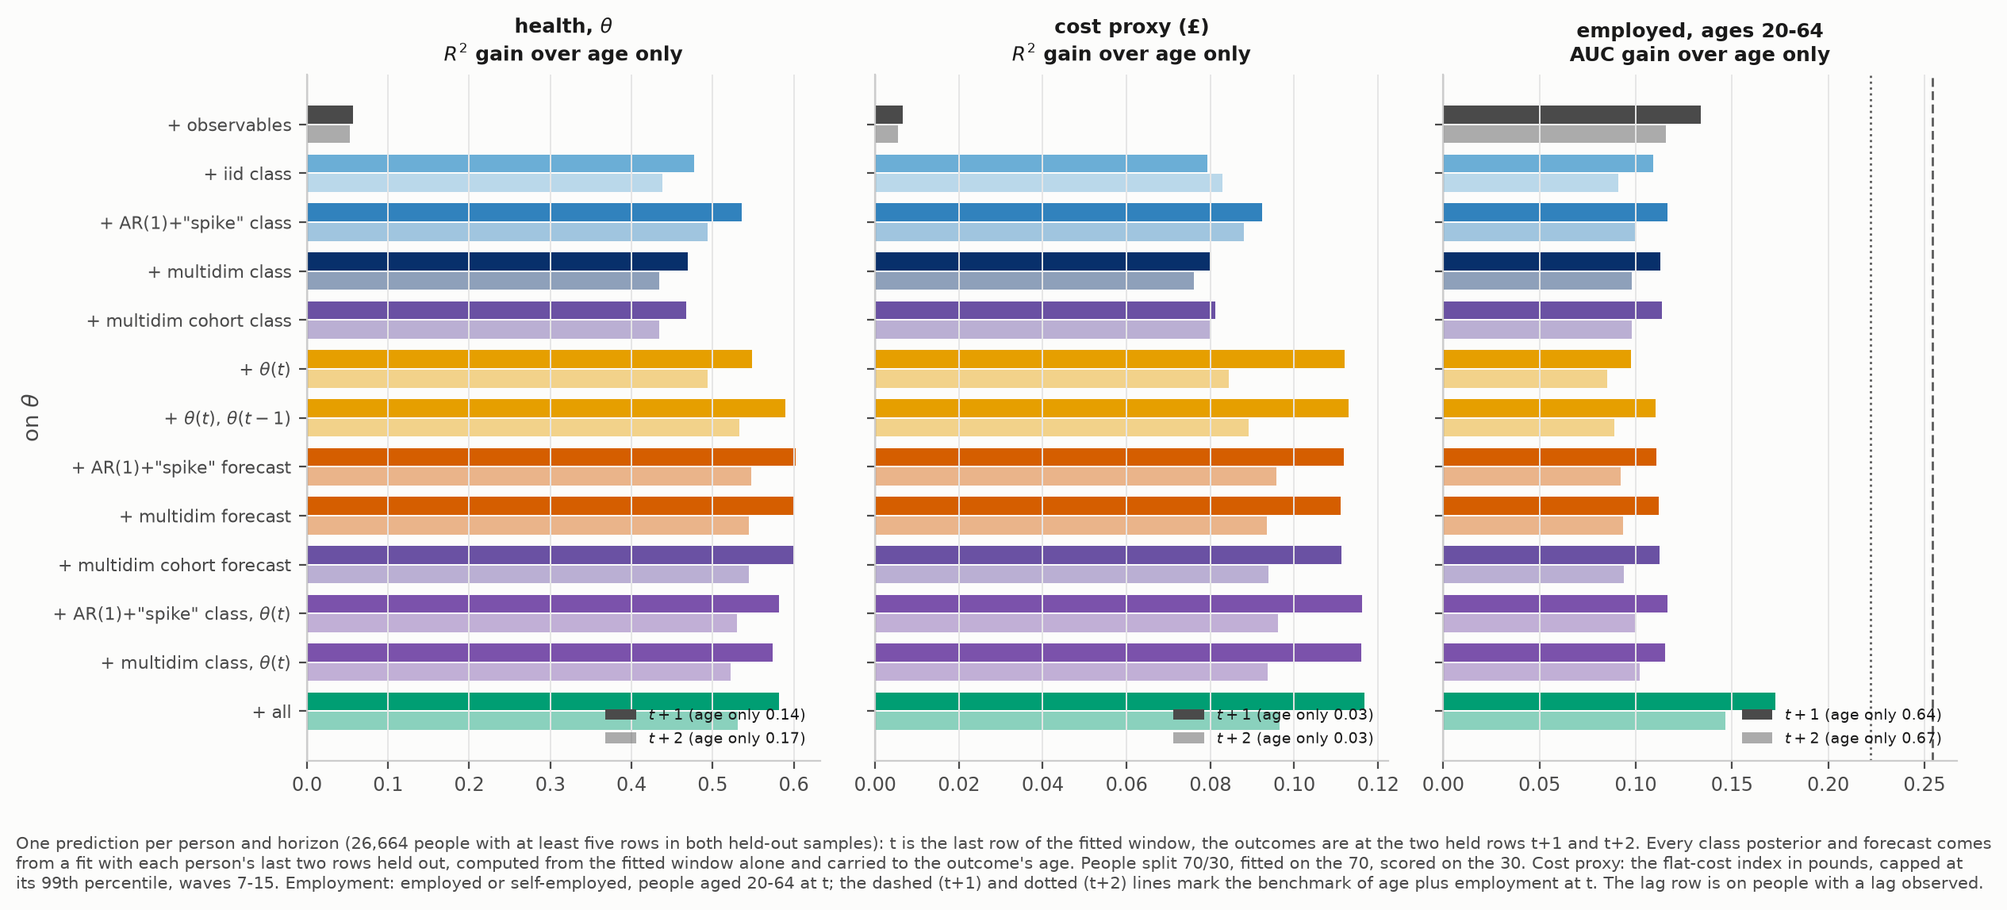
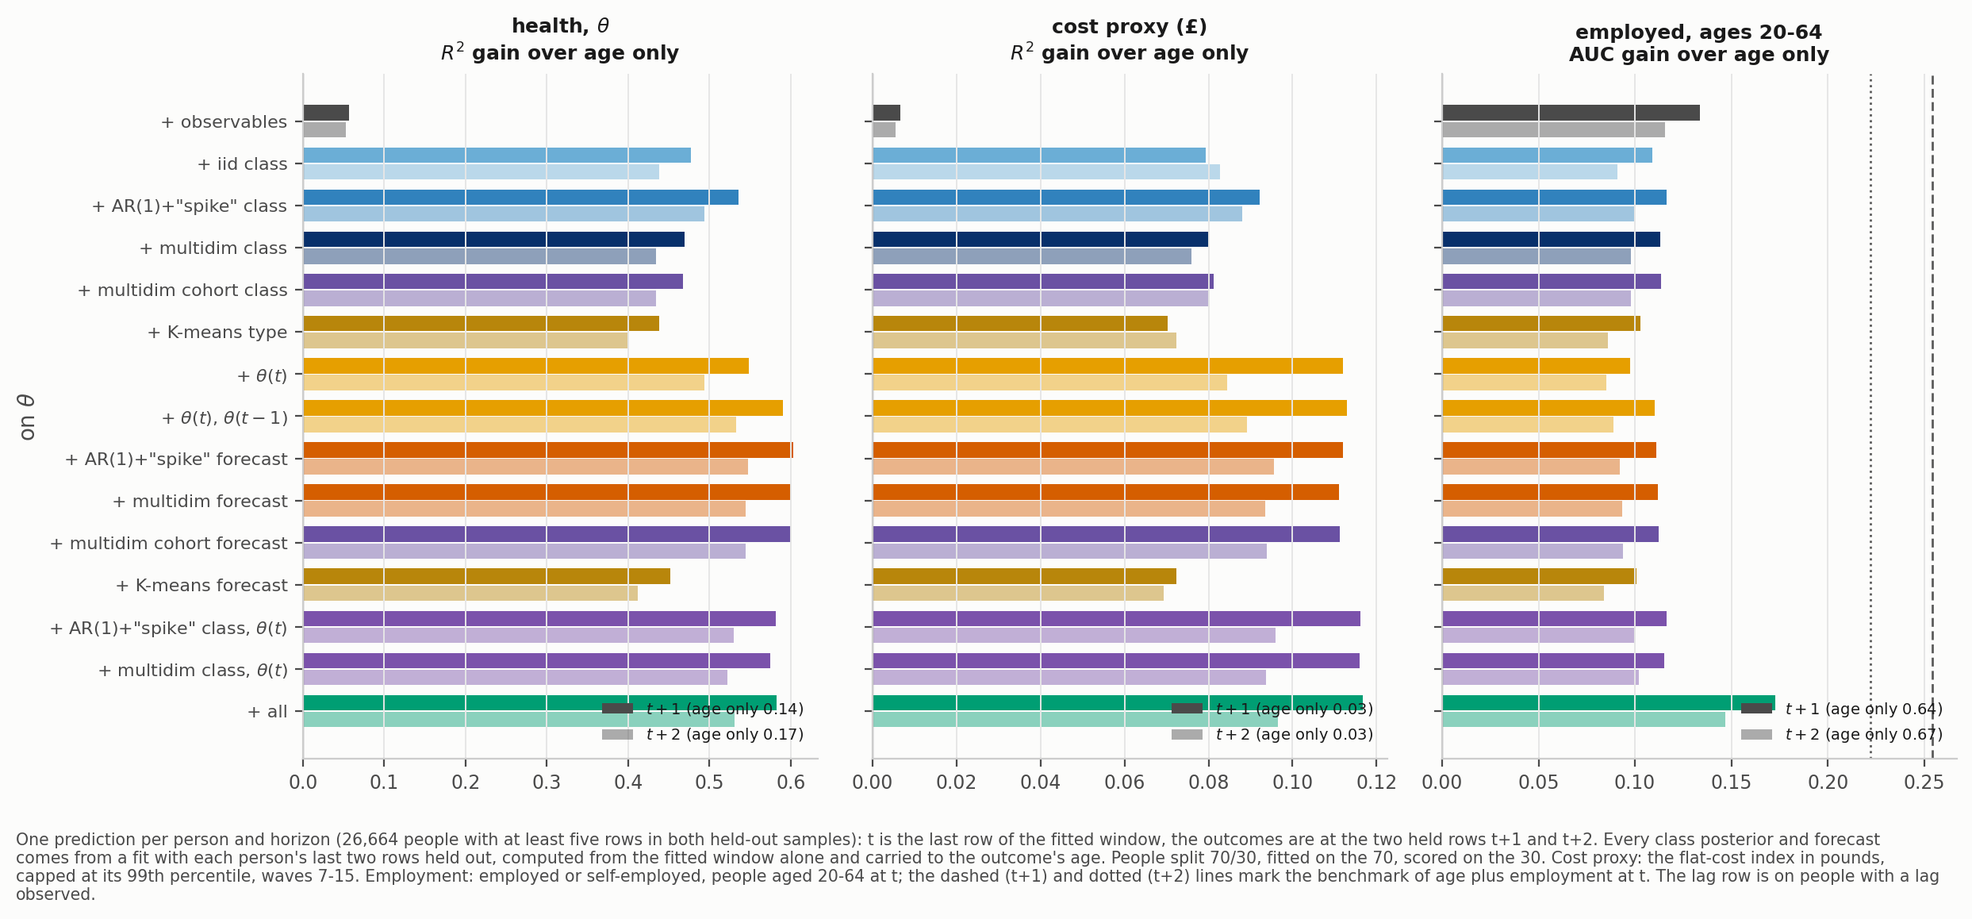
Prediction: K-means types and forecasts on the last-rows-held-out windows (22 --last-held, 33); 2x2 summary figure (56)
22: --last-held runs partial K-means on theta and h with each person's last two rows held out
(people with at least five rows), the rows of the held-out Bayesian fits.
33: '+ K-means type' and '+ K-means forecast' (the type's mean at the outcome's age); the
existing rows are unchanged. The tab_prediction f-string no longer needs Python 3.12.
56: fig_prediction_summary.png, predicting ahead (theta, cost) and predicting the type, with
the observables across the types.

Claude-Session: https://claude.ai/code/session_01KuSybU76X361Nwk54WX1KB

diff --git a/descriptives/56_paper_prediction_summary.py b/descriptives/56_paper_prediction_summary.py
@@ -1,0 +1,137 @@
+"""Main-text summary of the two prediction exercises, 2 x 2.
+
+Left column, predicting ahead (from 33_paper_prediction.py, paper_prediction.csv, on theta):
+out-of-sample R-squared at t+1 (full bar) and t+2 (light bar) for (a) the measure and (c) the
+cost proxy, from the observables, theta(t), theta(t) and its lag, and the forecasts of partial
+K-means, the AR(1) plus "spike" mixture and the multidimensional fit with birth-decade shifts,
+each on top of a quadratic in age; dotted, age alone.
+
+Right column, predicting the type (from 43_paper_type_from_initial.py --first2,
+paper_type_from_initial_first2.csv): (b) macro one-vs-rest AUC for the type of the fits with
+each person's first two rows held out, from the observables, the first held reading and both
+held readings, for K-means, AR(1) plus "spike" and the multidimensional fit; dotted, age
+alone. (d) How the observables are distributed across those types: the share of each
+education group, income third and sex in the worst type, against the worst type's overall
+share (dotted). The per-person types are recomputed with 43's own functions and cached to
+paper_prediction_summary_types.csv.
+
+The multidimensional typology in (b) and (d) is the fit without birth-decade shifts: there is
+no first-two-rows-held-out fit with them (theta-ssm-mort-cohort-first2ho).
+
+Outputs: paper/figures/fig_prediction_summary.png,
+         artifacts/descriptives/paper_prediction_summary_types.csv
+"""
+
+from __future__ import annotations
+
+import importlib
+import sys
+from pathlib import Path
+
+import matplotlib.pyplot as plt
+import numpy as np
+import pandas as pd
+
+sys.path.insert(0, str(Path(__file__).resolve().parent))
+from _paper_common import DESC, FIG, MENTAL_COL, MULTIDIM_CONTRACT, load_labels  # noqa: E402
+from _style import CLUSTER, INK2, PURPLE, apply_style  # noqa: E402
+
+KM_COL, SSM_COL, MD_COL = "#b8860b", CLUSTER[0], PURPLE
+TYPES_CSV = DESC / "paper_prediction_summary_types.csv"
+EDUC = [("other/none", "No qualifications"), ("GCSE", "GCSE"), ("A-level", "A-level"), ("degree or higher", "Degree or higher")]
+
+
+def person_types() -> pd.DataFrame:
+    """Modal type of each first-two-rows-held-out typology, with the observables."""
+    if TYPES_CSV.exists() and "--recompute" not in sys.argv:
+        return pd.read_csv(TYPES_CSV)
+    argv = sys.argv; sys.argv = ["43", "--first2"]
+    M43 = importlib.import_module("43_paper_type_from_initial")
+    sys.argv = argv
+    sub, first = M43.first_rows()
+    L = M43.load_labels("theta_first2held")
+    out = [first.merge(pd.DataFrame({"pidp": L.index, "type": L.to_numpy()}), on="pidp").assign(typology="kmeans")]
+    out.append(M43.bayes_types("ssm", sub, first).assign(typology="ssm"))
+    sub_md, first_md = M43.first_rows(MULTIDIM_CONTRACT, extra=(MENTAL_COL,), kheld=M43.MD_KHELD)
+    out.append(M43.multidim_types(sub_md, first_md.rename(columns={MENTAL_COL: "m0"})).assign(typology="md"))
+    t = pd.concat([o[["typology", "pidp", "type", "y0", "educ_group", "income_rank_mean", "female"]] for o in out])
+    t.to_csv(TYPES_CSV, index=False)
+    return t
+
+
+def main() -> int:
+    apply_style()
+    p = pd.read_csv(DESC / "paper_prediction.csv"); p = p[p["variant"] == "theta"]
+    q = pd.read_csv(DESC / "paper_type_from_initial_first2.csv")
+    types = person_types()
+
+    fig, axes = plt.subplots(2, 2, figsize=(12, 8.4))
+    # ---- left: predicting ahead
+    LEFT = [("Observables", "+ observables", INK2), (r"$\theta_t$", "+ theta(t)", "#1f6fb4"),
+            (r"$\theta_t,\ \theta_{t-1}$", "+ theta(t), theta(t-1)", "#1f6fb4"),
+            ("K-means forecast", "+ K-means forecast", KM_COL), ('AR(1)+"spike" forecast', '+ AR(1)+"spike" forecast', SSM_COL),
+            ("Multidimensional forecast\n(cohort shifts)", "+ multidim cohort forecast", MD_COL)]
+    for ax, oc, title in ((axes[0, 0], "y_next", r"(a) Predicting health ahead, $\theta$"),
+                          (axes[1, 0], "cost_next", "(c) Predicting the cost proxy ahead")):
+        s = p[p["outcome"] == oc].set_index(["predictors", "horizon"])["score"]
+        y = np.arange(len(LEFT))[::-1].astype(float); h = 0.38
+        for yi, (lab, pr, c) in zip(y, LEFT):
+            for k, off, alpha in ((1, h / 2, 1.0), (2, -h / 2, 0.4)):
+                v = s.loc[(pr, k)]
+                ax.barh(yi + off, v, height=h * 0.95, color=c, alpha=alpha)
+                ax.text(v + 0.004 * ax.get_xlim()[1], yi + off, f"{v:.2f}", va="center", fontsize=7.5, color=INK2)
+        for k, ls in ((1, (0, (1, 1.5))), (2, (0, (1, 3.5)))):
+            ax.axvline(s.loc[("age", k)], color="k", lw=1, ls=ls)
+        ax.text(s.loc[("age", 1)], y[0] + 0.62, " age only", fontsize=7.5, va="bottom")
+        ax.set_yticks(y, [l for l, _, _ in LEFT]); ax.set_ylim(-0.6, y[0] + 0.9)
+        ax.set_xlim(0, s.max() * 1.12); ax.set_xlabel("out-of-sample $R^2$", fontsize=9)
+        ax.set_title(title, loc="left", fontsize=10)
+        ax.legend(handles=[plt.Rectangle((0, 0), 1, 1, color=INK2), plt.Rectangle((0, 0), 1, 1, color=INK2, alpha=0.4)],
+                  labels=["$t+1$", "$t+2$"], fontsize=8, frameon=False, loc="upper right")
+    # ---- (b) predicting the type
+    ax = axes[0, 1]
+    TYP = [("kmeans", "K-means", KM_COL), ("ssm", 'AR(1)+"spike"', SSM_COL), ("md", "Multidimensional", MD_COL)]
+    INFO = [("Observables", "+ education, income, sex"), (r"$\theta_{t-2}$", "+ theta(0)"), (r"$\theta_{t-2},\ \theta_{t-1}$", "+ theta(0), theta(1)")]
+    w, gap = 0.26, 0.5
+    centres = np.arange(len(INFO))[::-1] * (len(TYP) * w + gap)
+    for k, (tag, lab, c) in enumerate(TYP):
+        qs = q[q["typology"] == tag].set_index("predictors")["auc"]
+        yk = centres + (1 - k) * w
+        ax.barh(yk, [qs.loc[pr] for _, pr in INFO], height=w * 0.92, color=c, label=lab)
+        for yy in yk:   # age alone, dotted, across the typology's own bar
+            ax.plot([qs.loc["age(0)"]] * 2, [yy - w / 2, yy + w / 2], color="k", lw=1.2, ls=(0, (1, 1.2)))
+        for yy, (_, pr) in zip(yk, INFO):
+            ax.text(qs.loc[pr] + 0.003, yy, f"{qs.loc[pr]:.2f}", va="center", fontsize=7.5, color=INK2)
+    ax.set_yticks(centres, [l for l, _ in INFO]); ax.set_xlim(0.5, 0.9)
+    ax.set_xlabel("macro one-vs-rest AUC for the type (dotted: age only)", fontsize=9)
+    ax.legend(fontsize=8, frameon=False, loc="upper right")
+    ax.set_title("(b) Predicting the type from the first two rows", loc="left", fontsize=10)
+    # ---- (d) the observables across the types: share in the worst type
+    ax = axes[1, 1]
+    t = types.dropna(subset=["educ_group", "income_rank_mean"]).copy()
+    t["inc3"] = pd.qcut(t.groupby("pidp")["income_rank_mean"].transform("first"), 3, labels=["Bottom income third", "Middle income third", "Top income third"])
+    GROUPS = [("educ_group", g, lab) for g, lab in EDUC] + [("inc3", g, g) for g in ["Bottom income third", "Middle income third", "Top income third"]] \
+        + [("female", 0.0, "Men"), ("female", 1.0, "Women")]
+    blocks = [0] * 4 + [1] * 3 + [2] * 2
+    centres = -(np.arange(len(GROUPS)) * (len(TYP) * w + 0.25) + np.array(blocks) * 0.6)
+    for k, (tag, lab, c) in enumerate(TYP):
+        d = t[t["typology"] == tag]; worst = d["type"].eq(0)
+        vals = [worst[d[col] == g].mean() for col, g, _ in GROUPS]
+        yk = centres + (1 - k) * w
+        ax.barh(yk, vals, height=w * 0.92, color=c, label=lab)
+        ax.axvline(worst.mean(), color=c, lw=1, ls=(0, (1, 1.5)))
+    ax.set_yticks(centres, [l for _, _, l in GROUPS], fontsize=8)
+    ax.set_xlabel("share in the worst type (dotted: the worst type's overall share)", fontsize=9)
+    ax.set_title("(d) The observables across the types", loc="left", fontsize=10)
+    fig.tight_layout()
+    fig.savefig(FIG / "fig_prediction_summary.png")
+    print("wrote fig_prediction_summary.png")
+    for tag, _, _ in TYP:
+        d = t[t["typology"] == tag]
+        print(tag, len(d), "type shares", d["type"].value_counts(normalize=True).sort_index().round(3).tolist(),
+              "mean y0 by type", d.groupby("type")["y0"].mean().round(2).tolist())
+    return 0
+
+
+if __name__ == "__main__":
+    sys.exit(main())

diff --git a/descriptives/33_paper_prediction.py b/descriptives/33_paper_prediction.py
@@ -6,7 +6,9 @@ least five rows on the health contract): the single-channel K = 3 fits on the
 paper's measure under independent residuals (iid) and under AR(1) plus a
 one-period "spike" (artifacts/health-next/health-{v}-{base,ssm}-ho), and the
 multidimensional fit, physical + mental GRM + Gompertz-Makeham mortality,
-under AR(1) plus "spike" (artifacts/multidim-health/{v}-ssm-mort-ho). Class
+under AR(1) plus "spike" (artifacts/multidim-health/{v}-ssm-mort-ho); and partial
+K-means on the same fitted windows (22_paper_kmeans.py --last-held, variants
+{v}_last2held). Class
 posteriors and the models' own one-step forecasts are computed from the
 fitted window alone, at the posterior mean, so nothing at t+1 informs them.
 
@@ -25,12 +27,15 @@ version. Predictors at t, each set carrying a quadratic in age:
   + iid class            posterior class probabilities, independent residuals
   + AR(1)+"spike" class  posterior class probabilities, AR(1) plus "spike"
   + multidim class       posterior class probabilities, multidimensional fit
+  + K-means type         the partial K-means type of the fitted window (dummies)
   + v(t)                 the measure at t
   + v(t), v(t-1)         and its lag (people with a lag observed)
   + AR(1)+"spike" forecast   the model's own forecast of v at the outcome's
                          age: the class-weighted path plus the filtered
                          state carried forward from t
   + multidim forecast    the same from the multidimensional fit
+  + K-means forecast     the K-means type's mean of the measure at the outcome's
+                         age (the type's centroid profile; no person-level state)
   + AR(1)+"spike" class, v(t)
   + multidim class, v(t)
   + all                  AR(1)+"spike" class, v(t), observables
@@ -231,6 +236,32 @@ def multidim(v: str, fit: str = "ssm-mort-ho", tag: str = "md"):
                   "s": mom[ch[0]]["sd"], "pidp": pids, "age_fe": window_ages(d, sub)[0], "offset": offset}
 
 
+def kmeans_last_held(v: str):
+    """Partial K-means types on the fitted windows (each person's last two rows held out) and
+    the types' mean profiles by age, from 22_paper_kmeans.py --last-held; None until that has run."""
+    var = f"{v}_last2held"
+    lab = pd.read_parquet(DESC / "paper_kmeans_labels.parquet")
+    lab = lab[lab["variant"] == var]
+    if lab.empty:
+        return None
+    traj = pd.read_csv(DESC / "paper_kmeans_trajectories.csv")
+    traj = traj[(traj["variant"] == var) & (traj["lo"] == 20) & (traj["hi"] == 90)]
+    prof = traj.pivot(index="age", columns="cluster", values="mean").reindex(range(20, 90)).interpolate(limit_direction="both")
+    post = lab[["pidp", "cluster"]].rename(columns={"cluster": "km_type"})
+    for c in range(K - 1):
+        post[f"km_{c + 1}"] = (post["km_type"] == c).astype(float)
+    return post, prof
+
+
+def kmeans_forecast(at: pd.DataFrame, prof: pd.DataFrame, target_age: np.ndarray) -> np.ndarray:
+    """The person's K-means type's mean of the measure at ``target_age`` (integer age, 20-89)."""
+    a = np.clip(np.floor(np.asarray(target_age, float)), 20, 89)
+    out = np.full(len(at), np.nan); ok = at["km_type"].notna().to_numpy() & ~np.isnan(a)
+    vals = prof.to_numpy()
+    out[ok] = vals[(a[ok] - 20).astype(int), at["km_type"].to_numpy()[ok].astype(int)]
+    return out
+
+
 def add_forecasts(at: pd.DataFrame, specs: list[dict], target_age: np.ndarray) -> pd.DataFrame:
     """The models' forecasts of the measure at ``target_age`` for the people in ``at``."""
     for sp in specs:
@@ -282,7 +313,7 @@ def score_sets(s: pd.DataFrame, oc: str, kind: str, SETS: dict, extra: dict | No
     out = []
     for name, cols in {**SETS, **(extra or {})}.items():
         s2, t2, y2 = s, test, y
-        need = [c for c in cols if c in ("y_lag", "md_c1", "md_c2", "md_fc", "mdc_c1", "mdc_c2", "mdc_fc", "emp_t")]
+        need = [c for c in cols if c in ("y_lag", "md_c1", "md_c2", "md_fc", "mdc_c1", "mdc_c2", "mdc_fc", "emp_t", "km_1", "km_2", "km_fc")]
         if need:
             keep = s[need].notna().all(axis=1).to_numpy()
             s2, t2, y2 = s[keep], test[keep], y[keep]
@@ -320,6 +351,8 @@ def run_variant(v: str, md_people: np.ndarray) -> tuple[pd.DataFrame, dict]:
         at = at.merge(post, on="pidp")
     at = at.merge(md[0], on="pidp", how="left") if have_md else at.assign(md_c1=np.nan, md_c2=np.nan)
     at = at.merge(mdc[0], on="pidp", how="left") if have_mdc else at.assign(mdc_c1=np.nan, mdc_c2=np.nan)
+    km = kmeans_last_held(v)
+    at = at.merge(km[0], on="pidp", how="left") if km is not None else at.assign(km_type=np.nan, km_1=np.nan, km_2=np.nan)
     frames = {}
     for k, target in ((1, at["age_hs"].to_numpy()), (2, at["age_he"].to_numpy()), (3, at["age_he"].to_numpy() + 1.0)):
         f = add_forecasts(at.copy(), specs, target)
@@ -327,6 +360,7 @@ def run_variant(v: str, md_people: np.ndarray) -> tuple[pd.DataFrame, dict]:
             f["md_fc"] = np.nan
         if not have_mdc:
             f["mdc_fc"] = np.nan
+        f["km_fc"] = kmeans_forecast(f, km[1], target) if km is not None else np.nan
         frames[k] = outcomes(v, f, k)
     obs = ["income_rank_mean", "female"] + [f"educ_{g}" for g in EDUC]
     SETS = {
@@ -336,11 +370,13 @@ def run_variant(v: str, md_people: np.ndarray) -> tuple[pd.DataFrame, dict]:
         '+ AR(1)+"spike" class': ["ssm_c1", "ssm_c2"],
         "+ multidim class": ["md_c1", "md_c2"],
         "+ multidim cohort class": ["mdc_c1", "mdc_c2"],
+        "+ K-means type": ["km_1", "km_2"],
         f"+ {v}(t)": [v],
         f"+ {v}(t), {v}(t-1)": [v, "y_lag"],
         '+ AR(1)+"spike" forecast': ["ssm_fc"],
         "+ multidim forecast": ["md_fc"],
         "+ multidim cohort forecast": ["mdc_fc"],
+        "+ K-means forecast": ["km_fc"],
         f'+ AR(1)+"spike" class, {v}(t)': ["ssm_c1", "ssm_c2", v],
         f"+ multidim class, {v}(t)": ["md_c1", "md_c2", v],
         "+ all": ["ssm_c1", "ssm_c2", v] + obs,
@@ -397,7 +433,7 @@ def main() -> int:
         groups = [(olab.replace(f"${VL['h']}$", "measure"), "AUC" if kind == "auc" else "$R^2$", len(hz)) for oc, olab, kind, hz in OUT]
         with open(TAB / f"tab_prediction{sfx}.tex", "w") as f:
             f.write("\\begin{tabular}{l" + "r" * len(colkeys) + "}\n\\toprule\n")
-            f.write("predictors at $t$ & " + " & ".join(f"\\multicolumn{{{n}}}{{c}}{{{g.replace('£', '\\pounds')} ({m})}}" for g, m, n in groups) + " \\\\\n")
+            f.write("predictors at $t$ & " + " & ".join(f"\\multicolumn{{{n}}}{{c}}{{{g} ({m})}}" for g, m, n in [(g.replace("£", "\\pounds"), m, n) for g, m, n in groups]) + " \\\\\n")
             start, cm = 2, []
             for _, _, n in groups:
                 cm.append(f"\\cmidrule(lr){{{start}-{start + n - 1}}}"); start += n
@@ -408,7 +444,8 @@ def main() -> int:
         # figure: gain over age, one row per measure, one panel per outcome, paired bars for the horizons
         fig, axes = plt.subplots(len(VSEL), len(OUT), figsize=(12.5, 5.2 * len(VSEL)), sharey="row", squeeze=False)
         COHORT_COL = "#6a51a3"
-        cols = [INK2, CLUSTER[2], CLUSTER[1], CLUSTER[0], COHORT_COL, ORANGE, ORANGE, VERM, VERM, COHORT_COL, PURPLE, PURPLE, GREEN]
+        KM_COL = "#b8860b"
+        cols = [INK2, CLUSTER[2], CLUSTER[1], CLUSTER[0], COHORT_COL, KM_COL, ORANGE, ORANGE, VERM, VERM, COHORT_COL, KM_COL, PURPLE, PURPLE, GREEN]
         for r, v in enumerate(VSEL):
             tv = tabs[v]; sets = metas[v]["sets"]; names = sets[1:]
             for ax, (oc, olab, kind, horizons) in zip(axes[r], metas[v]["out"]):

diff --git a/descriptives/22_paper_kmeans.py b/descriptives/22_paper_kmeans.py
@@ -21,7 +21,8 @@ A fourth lifecycle run clusters each person's predicted cost, the pooled cost cu
 on h evaluated at every contract row (_paper_common.load_predicted_cost_rows): the
 cost-anchored cardinalisation of the measure, for the appendix comparison.
 
---full-only runs the lifecycle fits; --windows-only the windows; --variants h,cost
+--last-held runs theta and h with each person's last two rows held out, for the forecasts of
+33_paper_prediction.py. --full-only runs the lifecycle fits; --windows-only the windows; --variants h,cost
 restricts either to the named variants. --frailty runs only the lifecycle fits on the
 comparison measures, the 31-deficit frailty index and log(frailty + 1/31) (contract columns
 ``frailty``, ``logfrailty``; higher = frailer, so type 1 is the highest), and adds
@@ -60,6 +61,11 @@ FRAILTY = ["frailty", "logfrailty"]   # comparison measures, --frailty only
 # "theta_firstheld", "h_firstheld", "theta_first2held", "h_first2held" for 43_paper_type_from_initial.py
 FIRSTHELD = {"theta_firstheld": ("theta", 1), "h_firstheld": ("h", 1),
              "theta_first2held": ("theta", 2), "h_first2held": ("h", 2)}
+# --last-held: theta and h with each person's last two rows (by age) dropped, people with at least
+# five rows, the rows of the last-rows-held-out Bayesian fits (artifacts/health-next/*-ho) that
+# 33_paper_prediction.py forecasts from; stored as variants "theta_last2held", "h_last2held"
+LASTHELD = {"theta_last2held": ("theta", 2), "h_last2held": ("h", 2)}
+LASTHELD_MIN_OBS = 5
 # --denoise: theta with the one-period "spike" taken out before clustering, the K-means analogue of
 # reading the covariance matrix off the diagonal (29_paper_moments.py). Two versions, stored as variants:
 #   theta_nbr  each observed row replaced by the mean of the person's adjacent observed rows (the one
@@ -113,6 +119,12 @@ def panel(which: str = "health") -> pd.DataFrame:
                             usecols=["pidp", "age", v]).sort_values(["pidp", "age"])
             n = p.groupby("pidp")["age"].transform("size")
             p = p[(n >= k + 3) & (p.groupby("pidp").cumcount() >= k)].rename(columns={v: which})
+        elif which in LASTHELD:
+            v, k = LASTHELD[which]
+            p = pd.read_csv(PROCESSED_DATA_DIR / "contracts" / "health_lifecycle_20_89_minobs3_v1" / "long.csv",
+                            usecols=["pidp", "age", v]).sort_values(["pidp", "age"])
+            n = p.groupby("pidp")["age"].transform("size")
+            p = p[(n >= LASTHELD_MIN_OBS) & (p.groupby("pidp").cumcount() < n - k)].rename(columns={v: which})
         else:
             p = pd.read_csv(PROCESSED_DATA_DIR / "contracts" / "health_lifecycle_20_89_minobs3_v1" / "long.csv",
                             usecols=["pidp", "age", *VARIANTS, *FRAILTY])
@@ -125,7 +137,7 @@ def run(task: tuple[str, int, int]):
     t0 = time.time()
     kv = KVAR.match(variant)
     col, k = (kv.group(1), int(kv.group(2))) if kv else (variant, K)
-    p = load_predicted_cost_rows("h") if variant == "predcost" else panel(variant if variant == "mental" or variant in FIRSTHELD or variant in DENOISE else "health")
+    p = load_predicted_cost_rows("h") if variant == "predcost" else panel(variant if variant == "mental" or variant in FIRSTHELD or variant in LASTHELD or variant in DENOISE else "health")
     p = p[p["age"].between(lo, hi)]
     if kv:
         p = p.rename(columns={col: variant})
@@ -170,9 +182,11 @@ def main() -> int:
         nxt = sys.argv[sys.argv.index("--first-held") + 1:]
         k = int(nxt[0]) if nxt and nxt[0].isdigit() else 1
         tasks = [(f"{v}_first{'' if k == 1 else k}held", *FULL) for v in ("theta", "h") if only is None or v in only]
+    elif "--last-held" in sys.argv:
+        tasks = [(f"{v}_last2held", *FULL) for v in ("theta", "h") if only is None or v in only]
     elif "--windows-only" not in sys.argv:
         tasks += [(v, *FULL) for v in VARIANTS + EXTRA if only is None or v in only]
-    if "--full-only" not in sys.argv and not any(f in sys.argv for f in ("--frailty", "--mental", "--first-held", "--denoise", "--k")):
+    if "--full-only" not in sys.argv and not any(f in sys.argv for f in ("--frailty", "--mental", "--first-held", "--last-held", "--denoise", "--k")):
         tasks += [(v, lo, hi) for v in ("h", "theta") if only is None or v in only for lo, hi in dict.fromkeys(SLIDING + BACKWARD)]
     print(f"{len(tasks)} runs", flush=True)
     with Pool(int(os.environ.get("KMEANS_PROCS", "3"))) as pool:

diff --git a/paper/tables/tab_prediction.tex b/paper/tables/tab_prediction.tex
@@ -11,11 +11,13 @@ age & 0.140 & 0.167 & 0.032 & 0.027 & 0.643 & 0.666 \\
 + AR(1)+``spike'' class & 0.677 & 0.661 & 0.124 & 0.115 & 0.760 & 0.766 \\
 + multidim class & 0.609 & 0.601 & 0.112 & 0.103 & 0.756 & 0.764 \\
 + multidim cohort class & 0.608 & 0.601 & 0.113 & 0.107 & 0.757 & 0.764 \\
++ K-means type & 0.579 & 0.568 & 0.102 & 0.100 & 0.746 & 0.753 \\
 + theta(t) & 0.689 & 0.661 & 0.144 & 0.112 & 0.741 & 0.752 \\
 + theta(t), theta(t-1) & 0.730 & 0.699 & 0.145 & 0.116 & 0.754 & 0.755 \\
 + AR(1)+``spike'' forecast & 0.743 & 0.714 & 0.144 & 0.123 & 0.754 & 0.759 \\
 + multidim forecast & 0.740 & 0.711 & 0.143 & 0.121 & 0.755 & 0.760 \\
 + multidim cohort forecast & 0.741 & 0.711 & 0.143 & 0.121 & 0.756 & 0.760 \\
++ K-means forecast & 0.592 & 0.579 & 0.104 & 0.097 & 0.744 & 0.751 \\
 + AR(1)+``spike'' class, theta(t) & 0.722 & 0.697 & 0.148 & 0.123 & 0.760 & 0.767 \\
 + multidim class, theta(t) & 0.715 & 0.689 & 0.148 & 0.121 & 0.759 & 0.768 \\
 + all & 0.723 & 0.697 & 0.148 & 0.124 & 0.816 & 0.813 \\

diff --git a/paper/tables/tab_prediction_h.tex b/paper/tables/tab_prediction_h.tex
@@ -11,11 +11,13 @@ age & 0.127 & 0.153 & 0.032 & 0.027 & 0.643 & 0.666 \\
 + AR(1)+``spike'' class & 0.676 & 0.654 & 0.127 & 0.114 & 0.757 & 0.764 \\
 + multidim class & 0.631 & 0.616 & 0.115 & 0.105 & 0.755 & 0.762 \\
 + multidim cohort class &  &  &  &  &  &  \\
++ K-means type & 0.613 & 0.598 & 0.114 & 0.109 & 0.749 & 0.755 \\
 + h(t) & 0.749 & 0.708 & 0.164 & 0.128 & 0.747 & 0.760 \\
 + h(t), h(t-1) & 0.783 & 0.738 & 0.164 & 0.131 & 0.761 & 0.765 \\
 + AR(1)+``spike'' forecast & 0.781 & 0.738 & 0.158 & 0.134 & 0.759 & 0.766 \\
 + multidim forecast & 0.774 & 0.727 & 0.156 & 0.133 & 0.761 & 0.768 \\
 + multidim cohort forecast &  &  &  &  &  &  \\
++ K-means forecast & 0.631 & 0.612 & 0.118 & 0.108 & 0.749 & 0.754 \\
 + AR(1)+``spike'' class, h(t) & 0.764 & 0.725 & 0.164 & 0.130 & 0.757 & 0.766 \\
 + multidim class, h(t) & 0.762 & 0.724 & 0.164 & 0.129 & 0.756 & 0.767 \\
 + all & 0.764 & 0.726 & 0.164 & 0.130 & 0.813 & 0.812 \\
